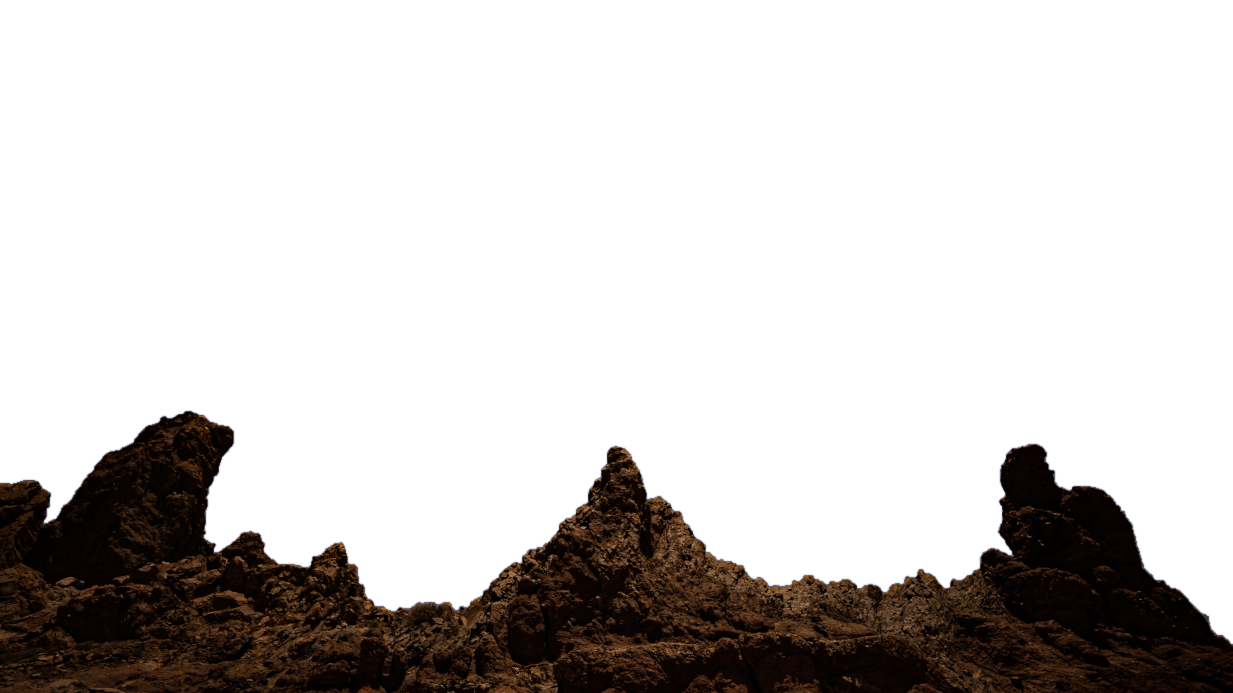
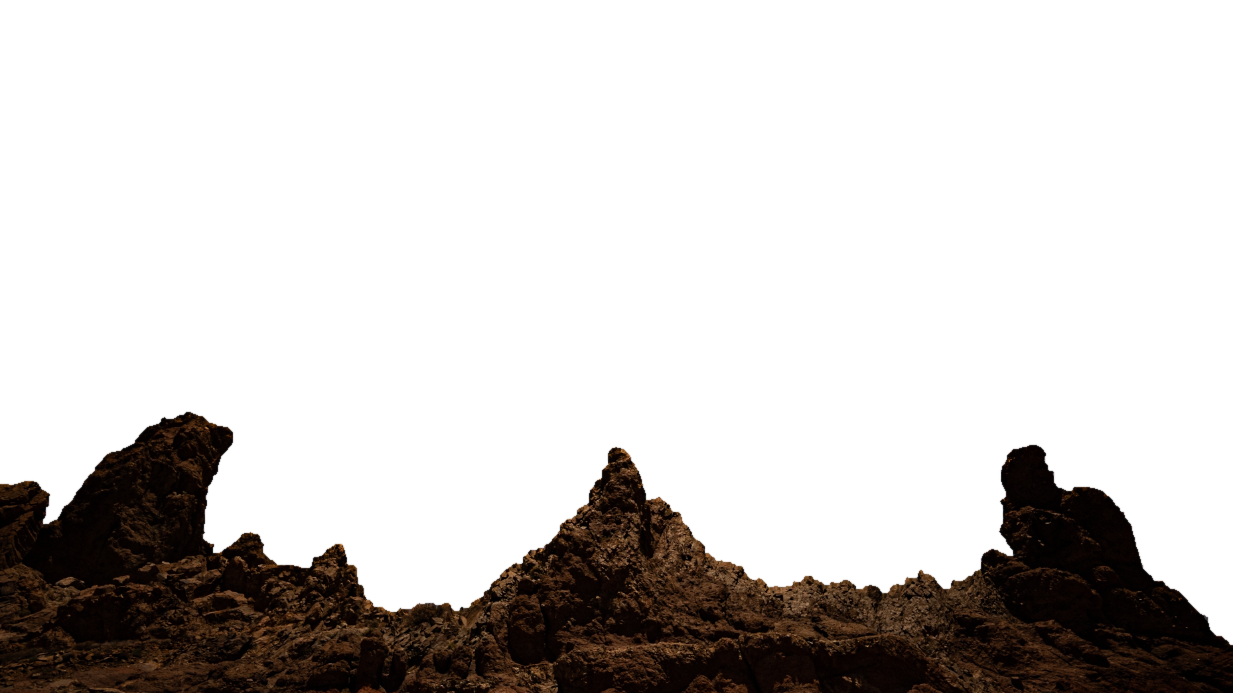
Refine photographic mountain composite

diff --git a/src/app/hero-landscape.css b/src/app/hero-landscape.css
@@ -5,7 +5,7 @@
   isolation: isolate;
 }
 
-.hero .container { position: relative; z-index: 2; }
+.hero .container { position: relative; z-index: 2; transform: translateY(-4vh); }
 
 .hero-visual-container {
   position: absolute;
@@ -73,7 +73,7 @@
   background: url('/hero/rocks_silhouette.png') center bottom / 100% auto no-repeat;
   transform: translate3d(var(--rocks-x, 0px), var(--rocks-y, 0px), 0);
   will-change: transform;
-  filter: brightness(.62) contrast(1.28);
+  filter: brightness(.85) contrast(.9) saturate(.84);
   pointer-events: none;
 }
 
@@ -82,8 +82,9 @@
   inset: -24px;
   z-index: 4;
   background: url('/hero/rocks_silhouette.png') center bottom / 100% auto no-repeat;
-  mask-image: radial-gradient(ellipse 41% 43% at 83% 68%, #000 0%, rgba(0, 0, 0, .62) 48%, transparent 100%);
-  filter: brightness(1.9) contrast(.82) saturate(.45);
+  mask-image: radial-gradient(ellipse 36% 39% at 83% 69%, #000 0%, rgba(0, 0, 0, .52) 44%, transparent 100%);
+  filter: brightness(1.1) contrast(1.04) saturate(.8);
+  opacity: .22;
   transform: translate3d(var(--rocks-x, 0px), var(--rocks-y, 0px), 0);
   will-change: transform;
   pointer-events: none;
@@ -159,8 +160,8 @@
   border-bottom: 1px solid rgba(217, 185, 120, .42);
 }
 
-.hero-content { text-shadow: 0 3px 30px rgba(0, 0, 0, .34); }
-.hero-name { font-family: 'Syne', sans-serif; font-weight: 800; text-shadow: 0 5px 36px rgba(0, 0, 0, .3); }
+.hero-content { max-width: min(1200px, calc(100vw - 3rem)); text-shadow: 0 3px 30px rgba(0, 0, 0, .34); }
+.hero-name { font-family: 'Syne', sans-serif; font-size: clamp(4.5rem, 7.2vw, 8rem); font-weight: 800; white-space: nowrap; text-shadow: 0 5px 36px rgba(0, 0, 0, .3); }
 .hero-tagline { font-family: 'Space Grotesk', sans-serif; font-weight: 400; }
 .hero-role-text, .hero-btn-primary, .hero-btn-secondary, .building-pill-label, .building-pill-name { font-family: 'JetBrains Mono', monospace; font-weight: 600; }
 .hero-role-cycler, .hero-building-pill { background: rgba(6, 13, 22, .78); backdrop-filter: blur(12px); }
@@ -182,6 +183,8 @@
   .hero-moon-scene { top: 10%; right: 9%; width: clamp(36px, 8vw, 48px); }
   .hero-launch-point { left: auto; right: 10%; bottom: 15%; font-size: .5rem; }
   .hero-content { padding-bottom: 7rem; }
+  .hero-name { white-space: normal; font-size: clamp(3.8rem, 12vw, 6rem); }
+  .hero .container { transform: none; }
 }
 
 @media (prefers-reduced-motion: reduce) {

diff --git a/scripts/make-rocks-cutout.py b/scripts/make-rocks-cutout.py
@@ -33,12 +33,27 @@ def make_cutout(source: Path, destination: Path, sky_destination: Path | None = 
     candidate = candidate.filter(ImageFilter.MinFilter(3))
     ImageDraw.floodfill(candidate, (width // 2, height - 1), 128, thresh=0)
 
-    # Only the foreground connected to the bottom edge survives. The narrow
-    # feather smooths cut pixels without leaving a visible sky-colored fringe.
-    alpha = candidate.point(lambda value: 255 if value == 128 else 0)
-    alpha = alpha.filter(ImageFilter.GaussianBlur(0.65))
+    # Pull the matte one pixel inside the rock. This drops the blue sky pixels
+    # that otherwise become a bright outline against the darker sky plate.
+    solid = candidate.point(lambda value: 255 if value == 128 else 0)
+    solid = solid.filter(ImageFilter.MinFilter(3))
+    alpha = solid.filter(ImageFilter.GaussianBlur(0.55))
     rocks = photo.convert("RGBA")
     rocks.putalpha(alpha)
+    rock_pixels = rocks.load()
+    solid_pixels = solid.load()
+    alpha_pixels = alpha.load()
+    for y in range(round(height * 0.55), height):
+        for x in range(width):
+            if 0 < alpha_pixels[x, y] < 255:
+                # Reuse nearby interior rock color at partially transparent
+                # pixels instead of blending a sky-blue source pixel into the edge.
+                for distance in range(1, 5):
+                    neighbor_y = min(height - 1, y + distance)
+                    if solid_pixels[x, neighbor_y] == 255:
+                        red, green, blue = pixels[x, neighbor_y]
+                        rock_pixels[x, y] = red, green, blue, alpha_pixels[x, y]
+                        break
     destination.parent.mkdir(parents=True, exist_ok=True)
     rocks.save(destination, optimize=True)
 
@@ -56,7 +71,7 @@ def make_cutout(source: Path, destination: Path, sky_destination: Path | None = 
                 height - 1,
             )
             sky_color = soft_pixels[x, max(0, ridge - 22)]
-            for y in range(ridge - 2, height):
+            for y in range(ridge - 4, height):
                 sky_pixels[x, y] = sky_color
         sky_destination.parent.mkdir(parents=True, exist_ok=True)
         sky_plate.save(sky_destination, quality=88, method=6)
